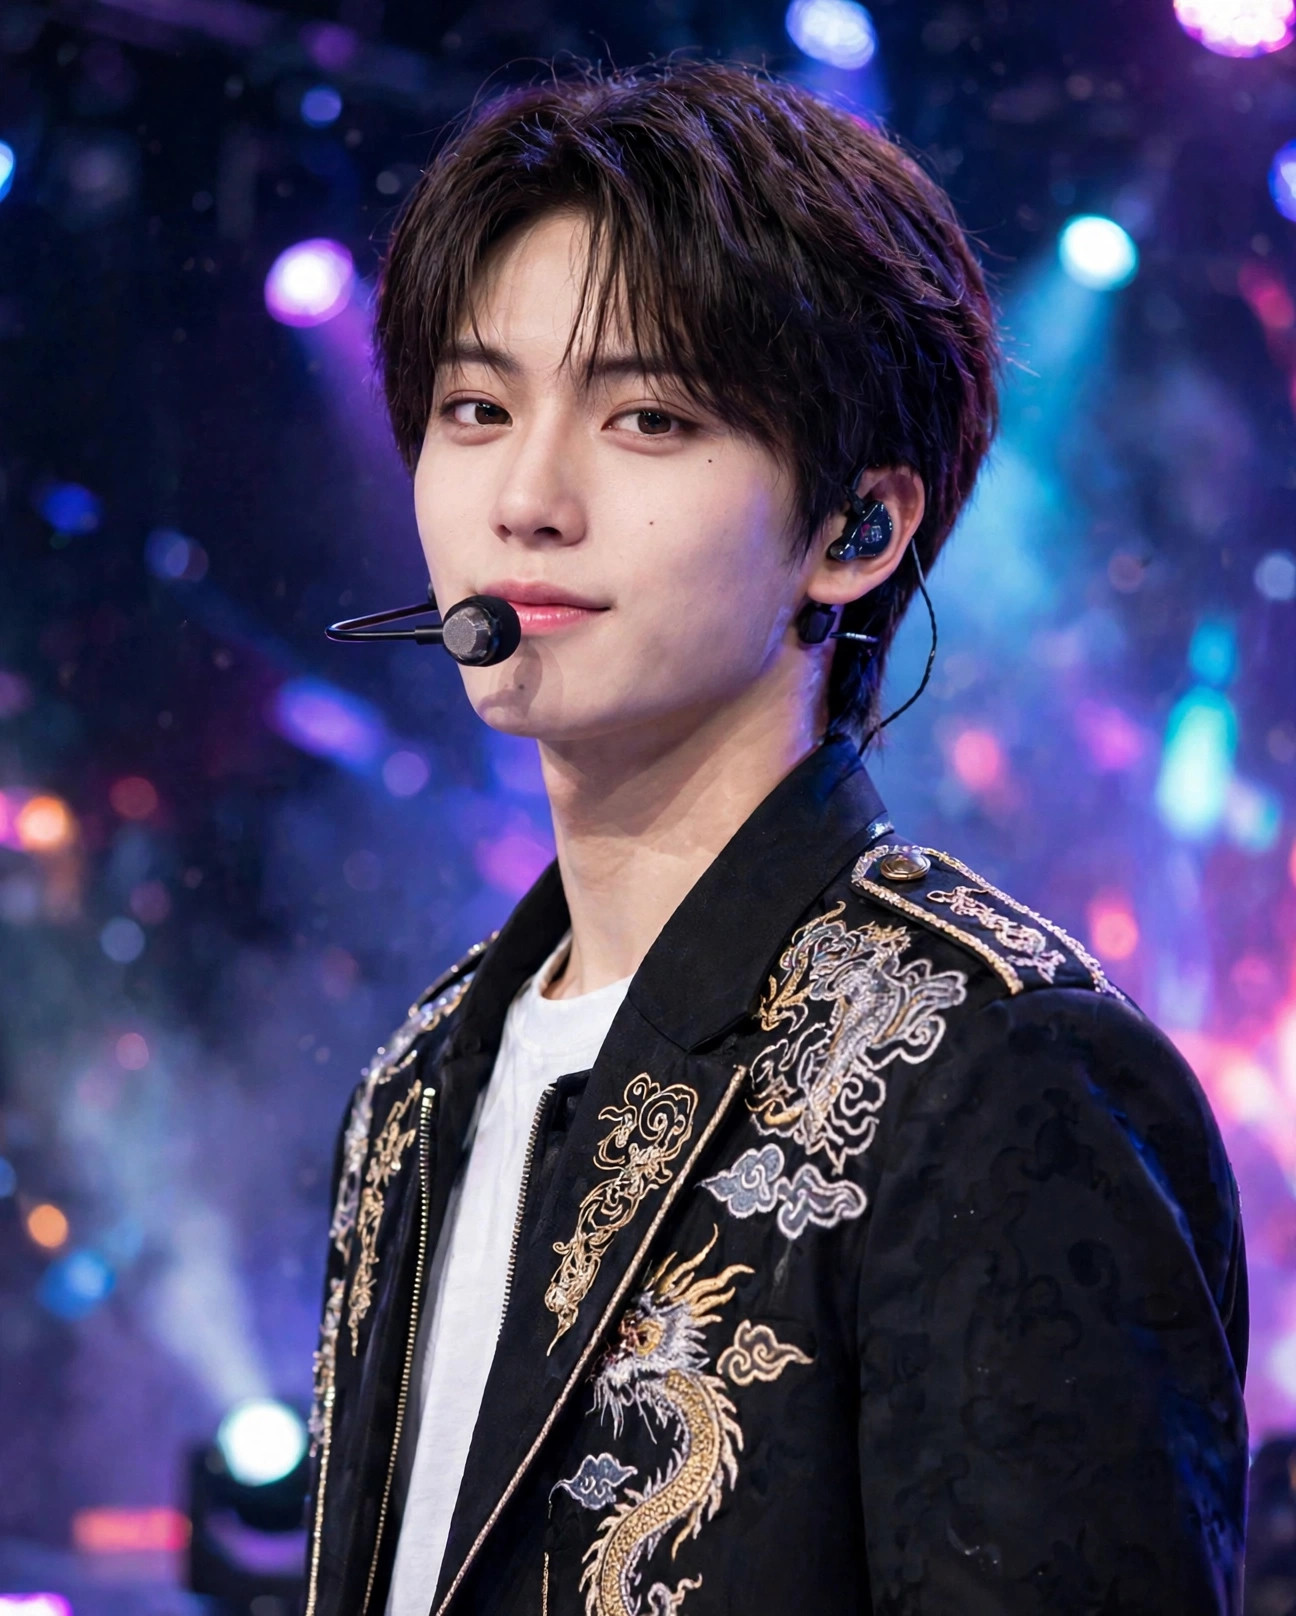
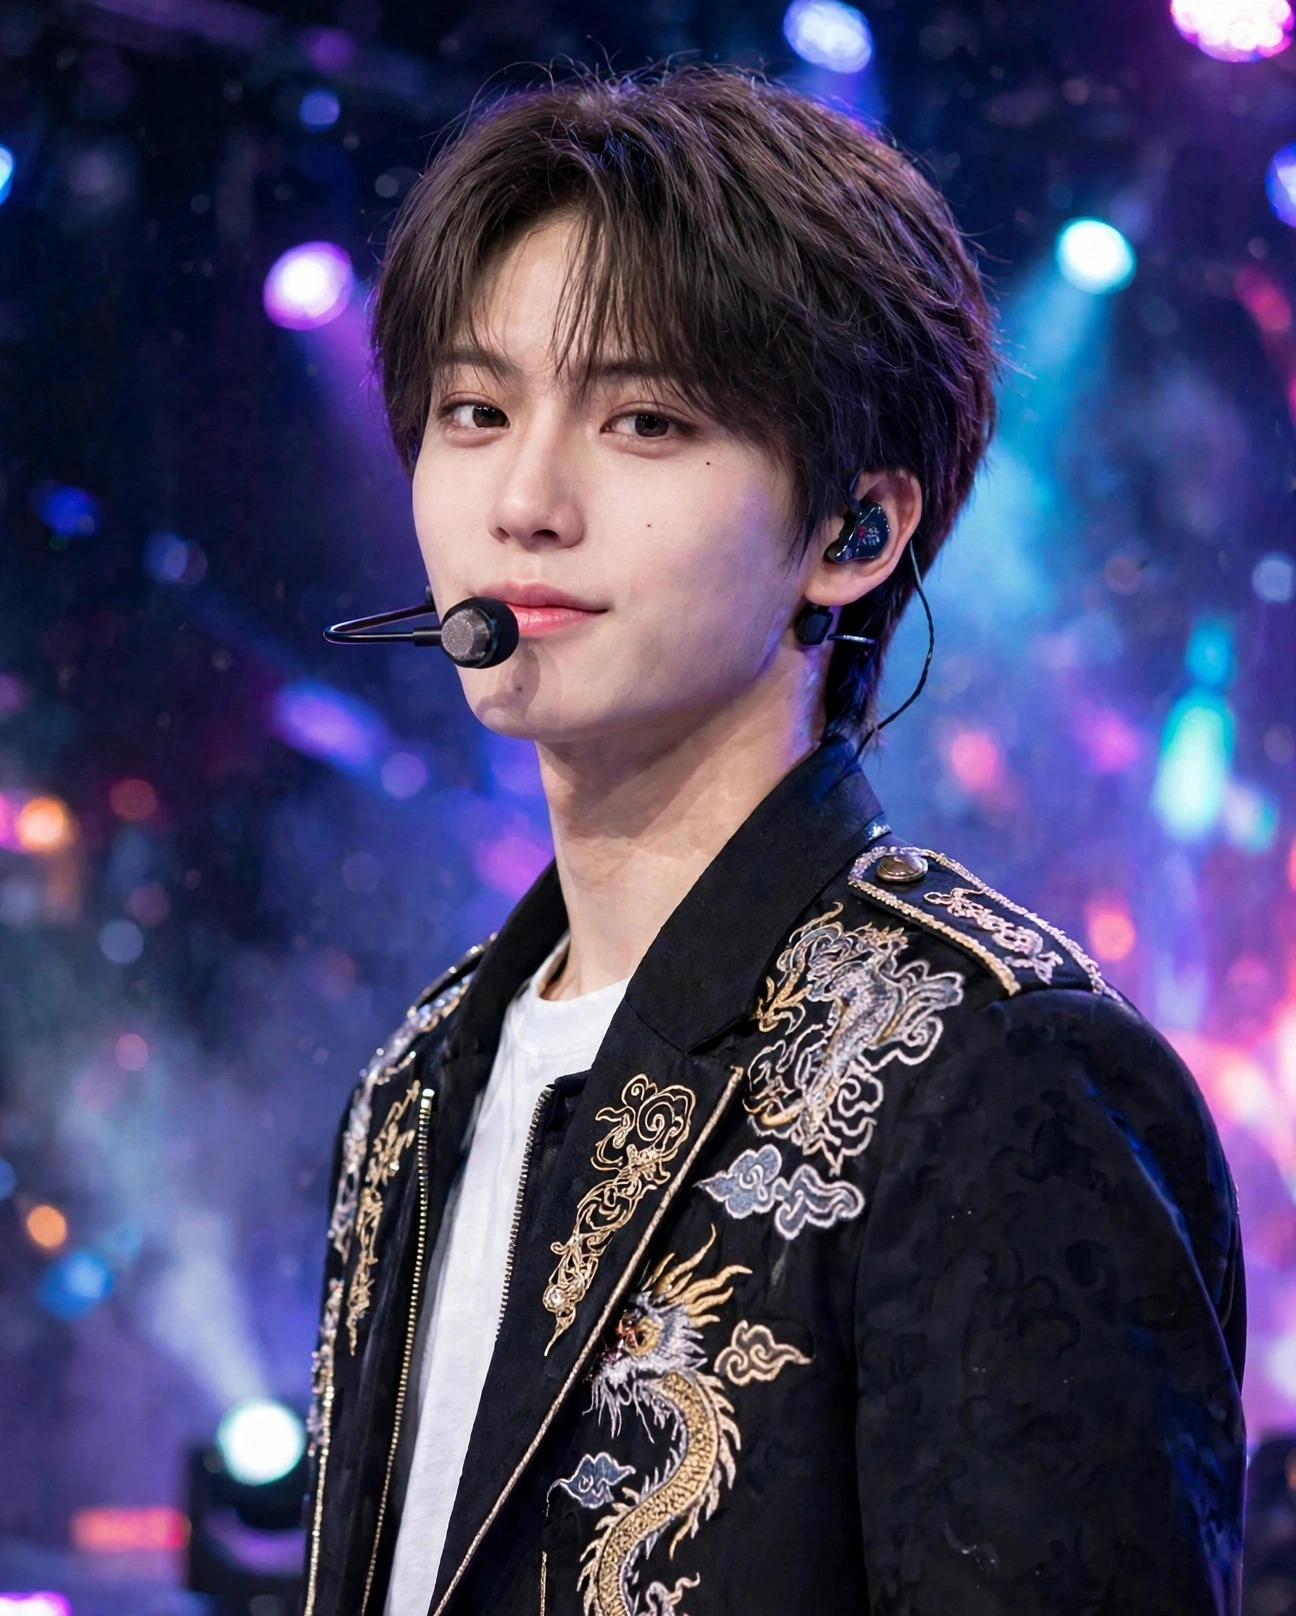
v151: 2021/stage.jpgを新顔基準（19歳版）で差し替え、全面差し替え完了

diff --git a/index.html b/index.html
@@ -732,7 +732,7 @@ body{font-family:-apple-system,"Hiragino Kaku Gothic ProN","Noto Sans JP",sans-s
 <script>
 "use strict";
 const $=s=>document.querySelector(s);
-const VER="v150";
+const VER="v151";
 /* ============ state ============ */
 const DEF={idx:0,started:false,consented:false,soundOn:true,
  g:{iwakan:0,bare:0,todoita:0,uta:8,dance:4,ishi:50},

diff --git a/docs/ASSETS_NAO.md b/docs/ASSETS_NAO.md
@@ -106,3 +106,6 @@
 - 生成方式（成功パターン）：キャンバス（既存カット）＋ standard-final.jpg ＋ 黒ニット原写真の3点を与え、「2枚目と同一人物の◯歳版に差し替え、パーツの形は同一に保ち年齢だけ変える、決定要素の列挙、鋳型禁止、耳は普通、髪色は暗めアッシュブラウン、構図・衣装・背景は1枚目のまま」と指示。生成マスターは ~/workspace/imagine_media/ に media-generation-std{19,21,23}-* として残存
 - ロック画面壁紙・ホーム写真ウィジェット・トークのアバター・番組アプリのカード類は、すべて上記ファイルの内容差し替えで自動追随（参照はファイル名ベース）。タイトル画面スライドショー8枚のうち nao の顔が出る7枚は新基準化（残り1枚 common/livehouse.jpg は大翔のみ）。**唯一の残件は 2021/stage.jpg**（タイトル3枚目・2021ロック壁紙に出る）
 - 旧カットは hidden_files/nao-std-replace-backup/{2019,2021,2023}/ に保管。候補ファイル群（cand-*、profile-grown／real／real2、profile-final＝standard-finalにsuperseded、2021/profile-uniform-outdoor.jpg）は v150 で hidden_files/nao-candidates-retired/ へ退避し、assets から除去（表示参照ゼロを確認済み）
+
+## 2026-11-09 v151 残件解消
+- 2021/stage.jpg（タイトル3枚目・2021時代のロック壁紙）を基準顔の19歳版で差し替え。これで顔が出る全素材の新基準化が完了。
